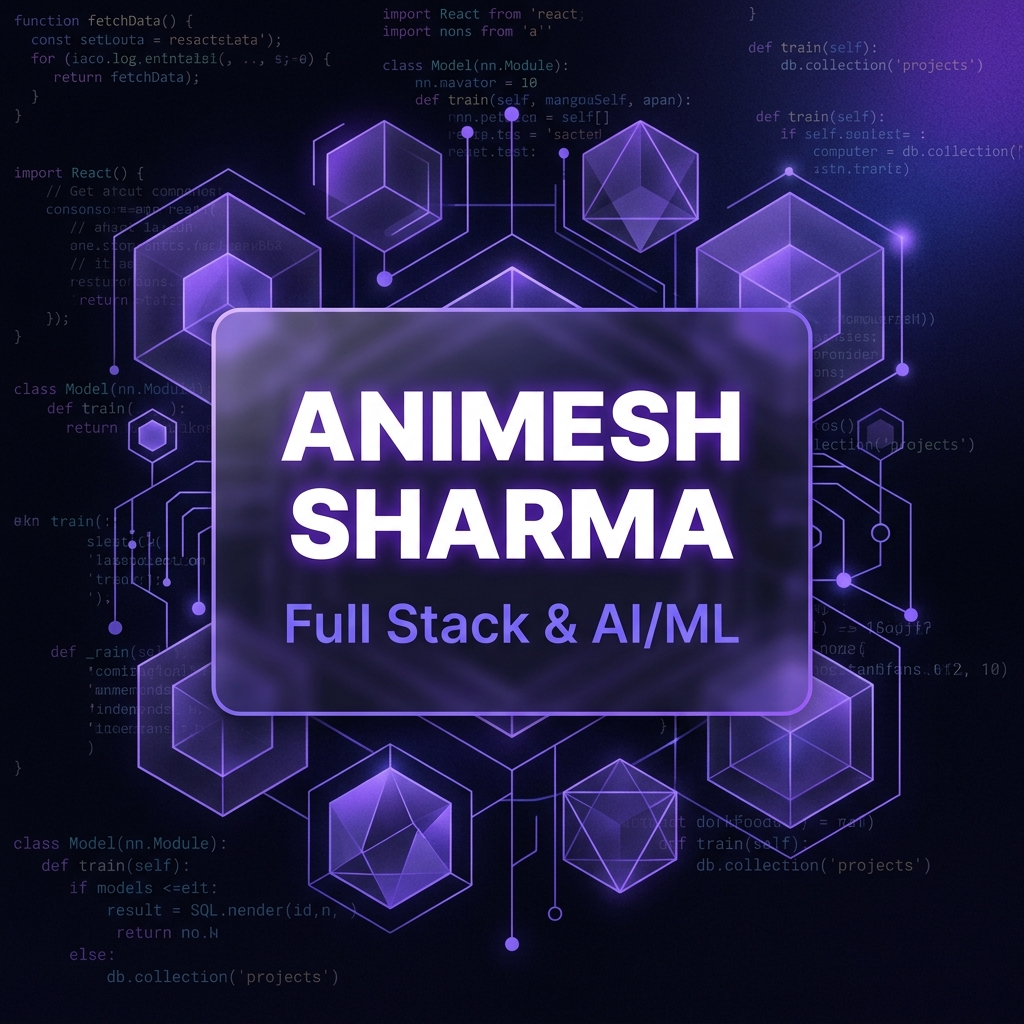
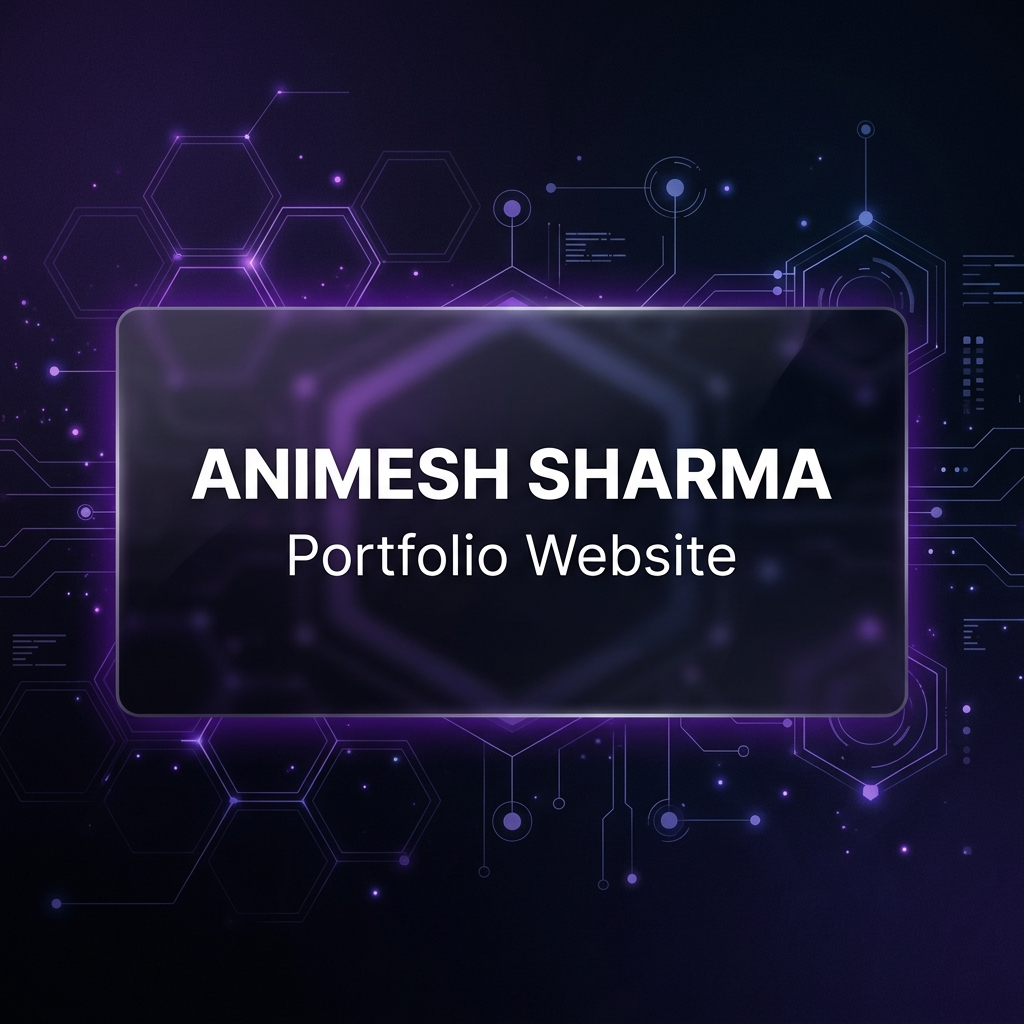
Update SEO metadata to remove 'System Engineer' and update open graph image

diff --git a/Portfolio/index.html b/Portfolio/index.html
@@ -6,24 +6,24 @@
       <meta name="viewport" content="width=device-width, initial-scale=1.0" />
       
       <!-- Primary Meta Tags -->
-      <title>Animesh Sharma | Systems Engineer & Full Stack Developer</title>
-      <meta name="title" content="Animesh Sharma | Systems Engineer & Full Stack Developer" />
-      <meta name="description" content="Systems engineer specializing in high-performance backends, real-time event-driven systems (Kafka/Redis), and production AI/ML applications." />
-      <meta name="keywords" content="Animesh Sharma, Systems Engineer, Software Engineer, Java Developer, Spring Boot, Kafka, Redis, Portfolio, AI/ML Specialist" />
+      <title>Animesh Sharma | Full Stack Developer</title>
+      <meta name="title" content="Animesh Sharma | Full Stack Developer" />
+      <meta name="description" content="Full stack developer specializing in high-performance backends, real-time event-driven systems (Kafka/Redis), and production AI/ML applications." />
+      <meta name="keywords" content="Animesh Sharma, Full Stack Developer, Software Engineer, Java Developer, Spring Boot, Kafka, Redis, Portfolio, AI/ML Specialist" />
       <meta name="author" content="Animesh Sharma" />
 
       <!-- Open Graph / Facebook -->
       <meta property="og:type" content="website" />
       <meta property="og:url" content="https://animesh-sharma-portfolio.netlify.app/" />
-      <meta property="og:title" content="Animesh Sharma | Systems Engineer & Full Stack Developer" />
-      <meta property="og:description" content="Explore the portfolio of Animesh Sharma, a Systems Engineer building high-performance, real-time distributed platforms." />
+      <meta property="og:title" content="Animesh Sharma | Full Stack Developer" />
+      <meta property="og:description" content="Explore the portfolio of Animesh Sharma, a Full Stack Developer building high-performance, real-time distributed platforms." />
       <meta property="og:image" content="https://animesh-sharma-portfolio.netlify.app/og-image.png" />
 
       <!-- Twitter -->
       <meta property="twitter:card" content="summary_large_image" />
       <meta property="twitter:url" content="https://animesh-sharma-portfolio.netlify.app/" />
-      <meta property="twitter:title" content="Animesh Sharma | Systems Engineer & Full Stack Developer" />
-      <meta property="twitter:description" content="Explore the portfolio of Animesh Sharma, a Systems Engineer building high-performance, real-time distributed platforms." />
+      <meta property="twitter:title" content="Animesh Sharma | Full Stack Developer" />
+      <meta property="twitter:description" content="Explore the portfolio of Animesh Sharma, a Full Stack Developer building high-performance, real-time distributed platforms." />
       <meta property="twitter:image" content="https://animesh-sharma-portfolio.netlify.app/og-image.png" />
 
       <style>html, body { height: 100%; margin: 0; background: #010103; } #root { height: 100%; }</style>
